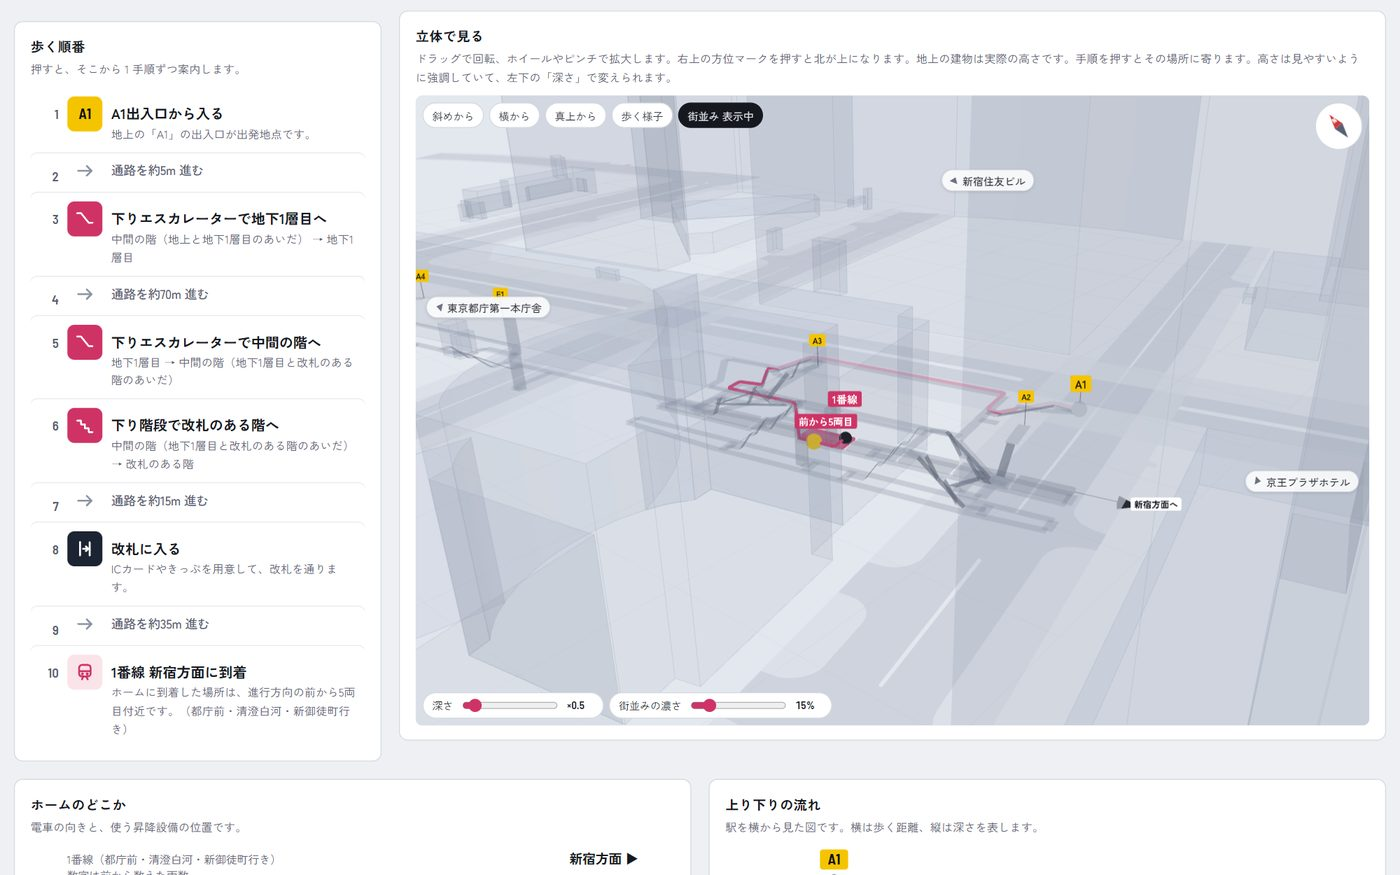
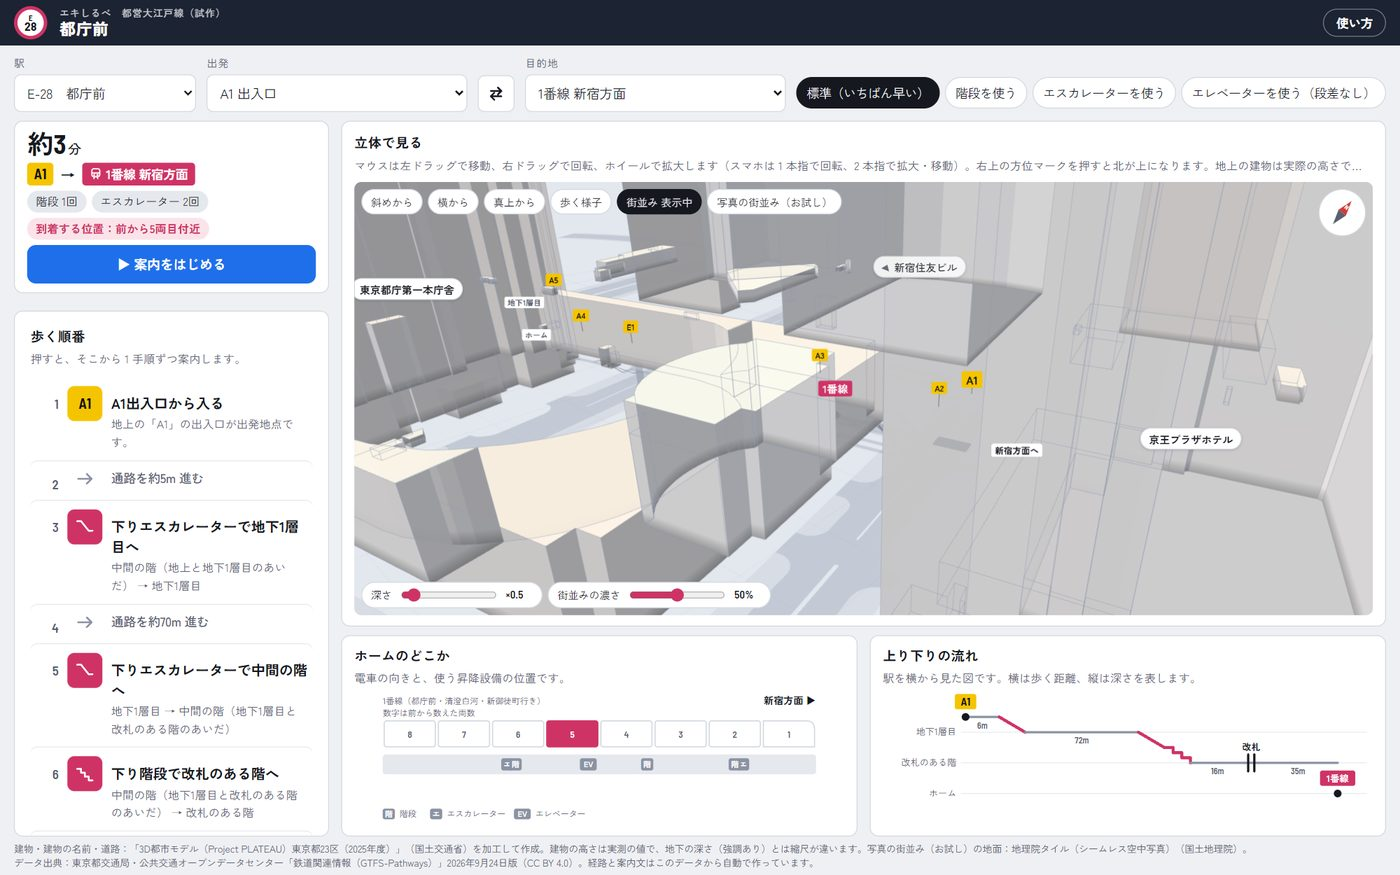
使い方のページの画像を今の画面で撮り直す（円柱の矢印・陰影の建物・PC の 1 画面・写真の街並み）

diff --git a/manual.html b/manual.html
@@ -102,7 +102,7 @@ a { color: var(--sel); }
     </div>
     <figure class="phone"><img src="manual/11_mobile_nav.jpg" alt="スマートフォンで案内している画面" loading="lazy"><figcaption>スマートフォンでは、立体図を上に、案内カードをその下に出し、ボタンは画面の下に固定します</figcaption></figure>
   </div>
-  <figure><img src="manual/03_gate.jpg" alt="改札の手順。案内カードに改札機と人のイラスト、立体図に緑の矢印と人のマーク" loading="lazy"><figcaption>「改札に入る」の手順（国立競技場）</figcaption></figure>
+  <figure><img src="manual/03_gate.jpg" alt="改札の手順。案内カードに改札機と人のイラスト、立体図に緑の人のマーク" loading="lazy"><figcaption>「改札に入る」の手順（国立競技場）</figcaption></figure>
 </section>
 
 <section>
@@ -115,12 +115,13 @@ a { color: var(--sel); }
     <li>上のボタンで<b>斜めから／横から／真上から</b>に切り替えられます。「<b>歩く様子</b>」は経路を後ろから追いかけます。</li>
     <li>左下の<b>深さ</b>で高さの強調を変えられます（最初は ×0.5）。データには実際の深さが無いので、階の順番を見やすく並べたものです。</li>
   </ul>
-  <figure><img src="manual/02_nav_stairs.jpg" alt="立体図で階段を下りる区間を矢印で示している画面" loading="lazy"><figcaption>「下り階段でホームへ」（大門）。ホームの前から 5 両目付近に着きます</figcaption></figure>
+  <figure><img src="manual/02_nav_stairs.jpg" alt="案内中の画面。立体図で階段を下りる区間を青い円柱の矢印で示し、左の案内カードに階段のイラスト" loading="lazy"><figcaption>「下り階段で改札のある階へ」（大門）。となりのエスカレーターは上り専用と添えています</figcaption></figure>
   <h3>街並みと目印の建物</h3>
   <p>地上には、国土交通省の 3D 都市モデル PLATEAU から、建物を実際の高さで、道路を車道・歩道に分けて描きます。建物は暖かい白の壁と色味を変えた屋根に、斜め上からの日差しと根元の陰を付け、形が分かるようにしています（地下の通路網が透けるよう半透明）。名前のある代表的な建物（東京都庁第一本庁舎など）は目印として名前を出し、画面の外にある建物は端に向きの矢印つきで出します。「<b>街並み</b>」ボタンで表示・非表示、左下の「<b>街並みの濃さ</b>」で濃さを変えられます。案内中は経路が見やすいように建物を消します。</p>
-  <figure><img src="manual/04_landmarks.jpg" alt="都庁前駅の立体図に建物と目印の名前が出ている画面" loading="lazy"><figcaption>都庁前。東京都庁第一本庁舎・新宿住友ビル・京王プラザホテルが目印</figcaption></figure>
+  <figure><img src="manual/04_landmarks.jpg" alt="都庁前駅の立体図に、陰影の付いた建物と目印の名前が出ている画面" loading="lazy"><figcaption>都庁前。東京都庁第一本庁舎・新宿住友ビル・京王プラザホテルが目印（街並みの濃さ 50%）</figcaption></figure>
   <h3>写真の街並み（お試し）</h3>
   <p>「<b>写真の街並み（お試し）</b>」ボタン（街並みを表示しているときに出ます）を押すと、建物を PLATEAU の<b>外壁・屋根の写真付きの建物</b>に、地面を国土地理院の<b>航空写真</b>に切り替えます。道路・横断歩道・線路・川は航空写真に写ります。押した状態はこの端末に覚えます。</p>
+  <figure><img src="manual/14_photo_city.jpg" alt="大門駅の立体図。写真付きの建物と航空写真の地面の下に、地下の経路が透けて見える画面" loading="lazy"><figcaption>写真の街並み（大門）</figcaption></figure>
   <ul>
     <li>選んだときに、その駅のまわりのデータを PLATEAU と国土地理院の配信元から読み込みます。駅によって約 3.5〜34 MB あるので、スマートフォンでは通信量にご注意ください（右下に読み込みの進み具合が出ます）。</li>
     <li>PLATEAU に外壁・屋根の写真が無い建物は、明るい灰色で描きます。駅によっては半分近くの建物が写真なしです（例: 麻布十番の周りは約 46%）。</li>
@@ -135,7 +136,7 @@ a { color: var(--sel); }
     <li><b>ホームのどこか</b>: 8 両の電車と進行方向、ホームにある階段・エスカレーター・エレベーターの位置、使う設備を示します。数字は進行方向の<b>前から数えた両数</b>です。</li>
     <li><b>上り下りの流れ</b>: 駅を横から見た図です。横は歩く距離、縦は深さ。どこで何階分上り下りするかが一目で分かります。</li>
   </ul>
-  <figure><img src="manual/05_figures.jpg" alt="ホームの図と、上り下りの流れの図" loading="lazy"></figure>
+  <figure><img src="manual/09_figs_only.jpg" alt="ホームの図と、上り下りの流れの図" loading="lazy"><figcaption>大門駅 A3 出入口 → 4 番線。前から 5 両目付近の階段を使います</figcaption></figure>
 </section>
 
 <section>
